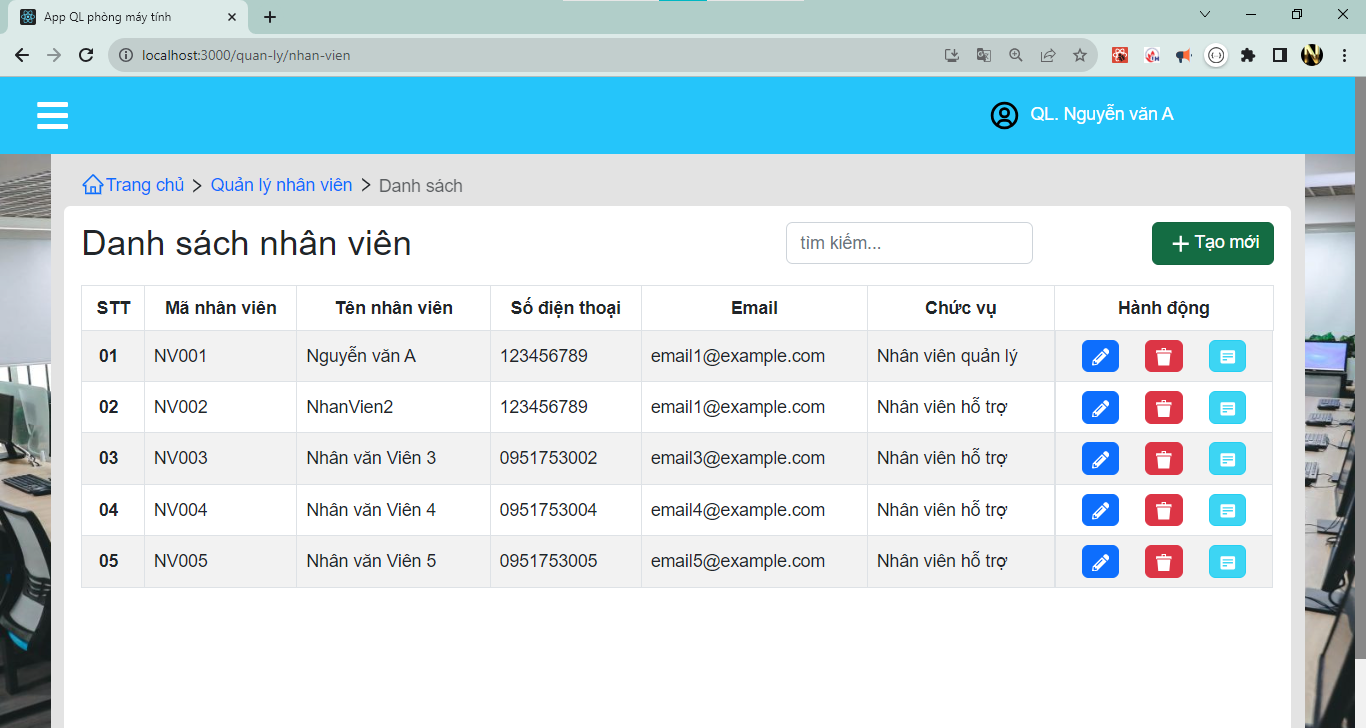
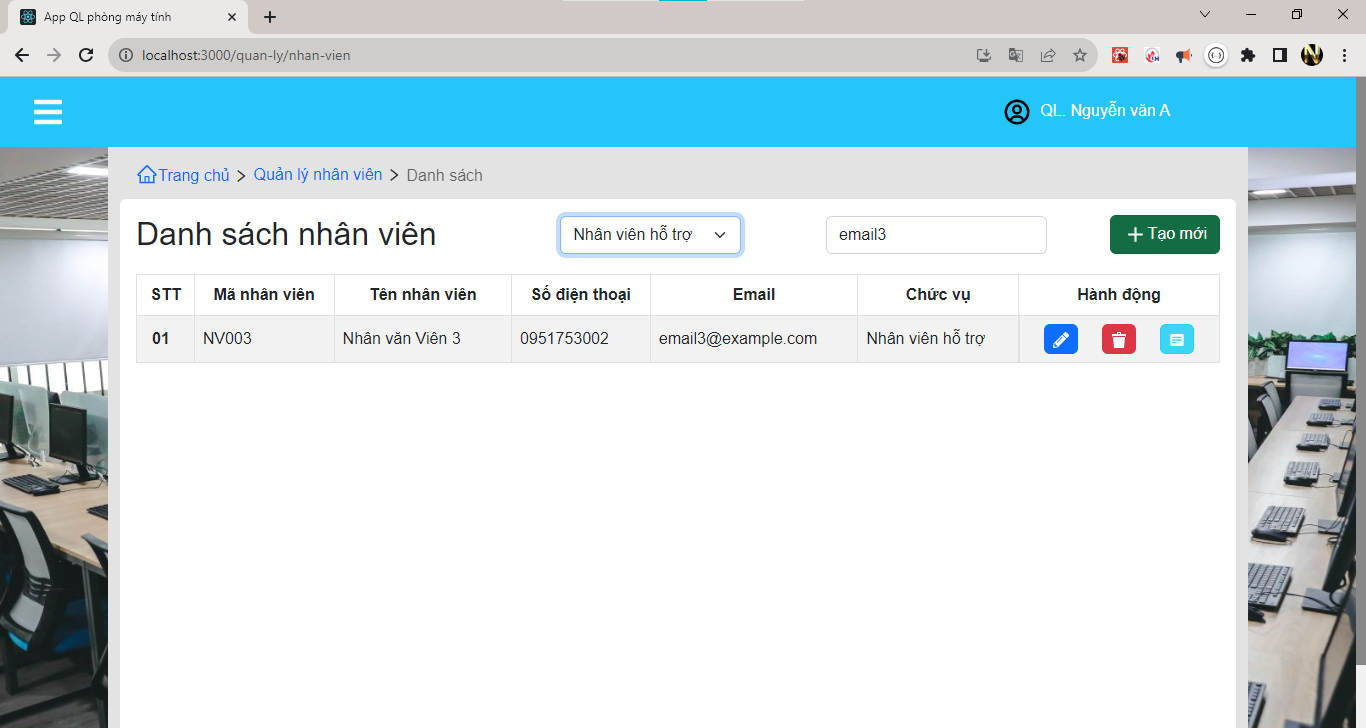
QlnhanVien: add select Chuc vu

diff --git a/src/pages/PageQuanLy/PageQLNhanVien.jsx b/src/pages/PageQuanLy/PageQLNhanVien.jsx
@@ -9,20 +9,37 @@ import Footer from "../../components/common/Footer/Footer";
 import NavTab from "../../components/common/NavTab/NavTab";
 import { NavLink } from "react-router-dom";
 import { useDispatch, useSelector } from "react-redux";
-import { getAllNhanVienApi, setValueSearchNhanVien } from "../../redux/reducers/nhanVienReducer";
+import {
+  getAllNhanVienApi,
+  setValueSearchNhanVien,
+  setValueSelectNhanVienAction,
+} from "../../redux/reducers/nhanVienReducer";
+import { getAllChucVuApi } from "../../redux/reducers/chucVuReducer";
 
 export default function PageQLNhanVien() {
   const dispatch = useDispatch();
 
-  const { arrNhanVienSearch } = useSelector((state) => state.nhanVienReducer);
+  const { arrNhanVien, arrNhanVienSearch, valueSelect, valueSearch } =
+    useSelector((state) => state.nhanVienReducer);
+  const { arrChucVu } = useSelector((state) => state.chucVuReducer);
 
   useEffect(() => {
-    dispatch(getAllNhanVienApi);
+    if (arrNhanVien.length === 0) {
+      dispatch(getAllNhanVienApi);
+    }
+
+    if (arrChucVu.length === 0) {
+      dispatch(getAllChucVuApi);
+    }
   }, []);
 
   //handle
   const handleChangeSearch = (e) => {
-    dispatch(setValueSearchNhanVien(e.target.value))
+    dispatch(setValueSearchNhanVien(e.target.value));
+  };
+  //
+  const handleChangeSelectChucVu = (e) => {
+    dispatch(setValueSelectNhanVienAction(e.target.value));
   };
   //render
   const renderDataNhanVien = () => {
@@ -83,6 +100,20 @@ export default function PageQLNhanVien() {
       );
     });
   };
+  //
+  const renderSelectChucVu = () => {
+    return arrChucVu?.map((item, index) => {
+      return (
+        <option
+          key={index}
+          selected={item.maCV == valueSelect ? 1 : 0}
+          value={item.maCV}
+        >
+          {item.tenCV}
+        </option>
+      );
+    });
+  };
 
   // Mảng quản lý data navtab
   let arrLinkNavTab = [{ name: "Quản lý nhân viên", link: "" }];
@@ -110,10 +141,21 @@ export default function PageQLNhanVien() {
             >
               <h2 style={{ margin: "0" }}>Danh sách nhân viên</h2>
               <div></div>
-
-              {/* select - option */}
-              {/* {renderSelectTrangThai()} */}
               <div></div>
+              {/* select - option */}
+
+              <div className="col-2 m-2">
+                <select
+                  className="form-select"
+                  onChange={handleChangeSelectChucVu}
+                >
+                  <option value="-1" selected>
+                    tất cả
+                  </option>
+                  {renderSelectChucVu()}
+                </select>
+              </div>
+
               <div></div>
 
               {/* input tim kiem */}
@@ -122,6 +164,7 @@ export default function PageQLNhanVien() {
                   type="text"
                   className="form-control"
                   placeholder="tìm kiếm..."
+                  value={valueSearch}
                   onChange={handleChangeSearch}
                 />
               </div>

diff --git a/src/redux/reducers/nhanVienReducer.jsx b/src/redux/reducers/nhanVienReducer.jsx
@@ -4,31 +4,40 @@ import { createSlice } from "@reduxjs/toolkit";
 import { http } from "../../util/config";
 import Database from "../../util/database/Database";
 
-
 // function
-const dataSearch = (arrData, valSearch) => {
-    let search = valSearch.toLowerCase();
+const dataSearch = (arrData, valSearch, valSelect) => {
+  let search = valSearch.toLowerCase();
+  let arrUpdate = [];
+  if (valSelect != -1) {
+    arrUpdate = arrData.filter((item) => {
+      return (
+        (item.maNV.toLowerCase().includes(search) ||
+          item.tenNV.toLowerCase().includes(search) ||
+          item.sDT.toLowerCase().includes(search) ||
+          item.email.toLowerCase().includes(search)) &&
+        item.chucVu.maCV == valSelect
+      );
+    });
+  } else {
+    arrUpdate = arrData.filter((item) => {
+      return (
+        item.maNV.toLowerCase().includes(search) ||
+        item.tenNV.toLowerCase().includes(search) ||
+        item.sDT.toLowerCase().includes(search) ||
+        item.email.toLowerCase().includes(search)
+      );
+    });
+  }
 
-    let arrUpdate = arrData.filter(item => {
-        let ngaySinh = new Date(item.ngaySinh);
-        return (
-        item.idCode.toLowerCase().includes(search) ||
-        item.name.toLowerCase().includes(search) ||
-        (ngaySinh.getYear()+"").toLowerCase().includes(search) ||
-        item.sdt.toLowerCase().includes(search) ||
-        item.email.toLowerCase().includes(search) 
-        )
-    })
-
-    return [...arrUpdate];
-    
-}
+  return [...arrUpdate];
+};
 
 const initialState = {
   arrNhanVien: [],
   arrNhanVienSearch: [],
   detailNhanVien: {},
   valueSearch: "",
+  valueSelect: "-1",
 };
 
 const nhanVienReducer = createSlice({
@@ -39,16 +48,34 @@ const nhanVienReducer = createSlice({
       state.arrNhanVien = action.payload;
       state.arrNhanVienSearch = action.payload;
     },
-    setValueSearchNhanVien: (state, action) =>{
-        state.valueSearch = action.payload
+    setValueSearchNhanVien: (state, action) => {
+      state.valueSearch = action.payload;
 
-        let{arrNhanVien} = state;
-        state.arrNhanVienSearch = dataSearch(arrNhanVien, action.payload)
-    }
+      let { arrNhanVien, valueSearch, valueSelect } = state;
+      state.arrNhanVienSearch = dataSearch(
+        arrNhanVien,
+        action.payload,
+        valueSelect
+      );
+    },
+    setValueSelectNhanVienAction: (state, action) => {
+      state.valueSelect = action.payload;
+
+      let { arrNhanVien, valueSearch, valueSelect } = state;
+      state.arrNhanVienSearch = dataSearch(
+        arrNhanVien,
+        valueSearch,
+        action.payload
+      );
+    },
   },
 });
 // exp nay de sử dụng theo cách 2
-export const {setArrNhanVienAction,setValueSearchNhanVien, } = nhanVienReducer.actions;
+export const {
+  setArrNhanVienAction,
+  setValueSelectNhanVienAction,
+  setValueSearchNhanVien,
+} = nhanVienReducer.actions;
 export default nhanVienReducer.reducer;
 
 // -------------- Call API ---------------

diff --git a/src/pages/PageQuanLy/PageQLTaiKhoan.jsx b/src/pages/PageQuanLy/PageQLTaiKhoan.jsx
@@ -10,6 +10,7 @@ import NavTab from "../../components/common/NavTab/NavTab";
 import { NavLink } from "react-router-dom";
 import { useDispatch, useSelector } from "react-redux";
 import {
+  deleteTaiKhoanApi,
   getAllQuyenSDApi,
   getAllTaiKhoanApi,
   getUserbyIdApi,
@@ -57,21 +58,6 @@ export default function PageQLTaiKhoan() {
           <td>{item.mota.name}</td> */}
 
           <td style={{ display: "flex", justifyContent: "space-evenly" }}>
-            {/* <NavLink
-              // to={"/quan-ly/tai-khoan/update"}
-              onClick={() => {
-                alert(`Update -- ${item.id} -- dang cập nhật!`);
-                // co the truyển data len redux từ đây rồi sang trang kia lấy về sau
-              }}
-            >
-              <button
-                type="button"
-                className="btn btn-primary mx-2 px-2"
-                style={{ padding: "2px" }}
-              >
-                <FaPencilAlt color="white" size={16} />
-              </button>
-            </NavLink> */}
 
             <button
               type="button"
@@ -86,16 +72,18 @@ export default function PageQLTaiKhoan() {
               <BiSolidDetail color="white" size={16} />
             </button>
 
-            <button
+            {/* <button
               onClick={() => {
-                alert(`Del -- ${item.id} -- dang cập nhật!`);
+                if (window.confirm("Bấm vào nút OK để xóa tài khoản" + item.tenDangNhap)) {
+                  dispatch(deleteTaiKhoanApi(item.maTK));
+                }
               }}
               type="button"
               className="btn btn-danger mx-2 px-2"
               style={{ padding: "2px" }}
             >
               <ImBin2 color="white" size={16} />
-            </button>
+            </button> */}
           </td>
         </tr>
       );
@@ -198,7 +186,7 @@ export default function PageQLTaiKhoan() {
                     <th style={{ minWidth: "110px" }}>Mã tài khoản</th>
                     <th style={{ minWidth: "125px" }}>Tên đăng nhập</th>
                     <th style={{ minWidth: "160px" }}>Quyền sử dụng</th>
-                    <th style={{ minWidth: "170px" }}>Hành động</th>
+                    <th style={{ minWidth: "120px" }}>Hành động</th>
                   </tr>
                 </thead>
                 <tbody className="over_flow_auto">

diff --git a/src/redux/reducers/chucVuReducer.jsx b/src/redux/reducers/chucVuReducer.jsx
@@ -1,0 +1,40 @@
+//rxslice
+
+import { createSlice } from "@reduxjs/toolkit";
+import { http } from "../../util/config";
+
+const initialState = {
+  arrChucVu:[],
+  arrChucVuSearch:[],
+};
+
+const chucVuReducer = createSlice({
+  name: "chucVuReducer",
+  initialState,
+  reducers: {
+    setArrChucVuAction: (state, action) => {
+      state.arrChucVu = action.payload;
+      state.arrChucVuSearch = action.payload;
+    },
+  },
+});
+// exp nay de sử dụng theo cách 2
+export const { setArrChucVuAction } = chucVuReducer.actions;
+export default chucVuReducer.reducer;
+
+
+// Call Api ====================================
+/**
+ * get all Chuc vu
+ */
+export const getAllChucVuApi = async (dispatch) => {
+  try {
+    let result = await http.get('/DSChucVu');
+
+    dispatch(setArrChucVuAction(result.data));
+  } catch (error) {
+    console.log("🚀 ~ file: chucVuReducer.jsx:33 ~ getAllChucVuApi ~ error:", error)
+    
+  }
+} 
+

diff --git a/src/redux/ConfigRedux.js b/src/redux/ConfigRedux.js
@@ -13,9 +13,11 @@ import lichTrucReducer from "./reducers/lichTrucReducer";
 import homeReducer from "./reducers/homeReducer";
 import phongMayReducer from "./reducers/phongMayReducer";
 import phanMemReducer from "./reducers/phanMemReducer";
+import chucVuReducer from "./reducers/chucVuReducer";
 
 export const store = configureStore({
     reducer: {
+      chucVuReducer:chucVuReducer,
       phanMemReducer:phanMemReducer,
       phongMayReducer:phongMayReducer,
       homeReducer:homeReducer,

diff --git a/src/redux/reducers/taiKhoanReducer.jsx b/src/redux/reducers/taiKhoanReducer.jsx
@@ -128,12 +128,22 @@ export default taiKhoanReducer.reducer;
 
 // -------------- Call API ---------------
 
+export const deleteTaiKhoanApi= (maTk) => {
+  return async (dispatch) => {
+    try {
+      
+    } catch (error) {
+      console.log("🚀 ~ file: taiKhoanReducer.jsx:136 ~ return ~ error:", error)
+      
+    }
+  }
+}
+
 /**
  * update taiKhoan
  * @param {*} taiKhoan
  * @returns
  */
-
 export const updateTaiKhoan2 = (taiKhoan) => {
   return async (dispatch) => {
     try {

diff --git a/src/pages/PageQuanLy/PageQLGiaoVien.jsx b/src/pages/PageQuanLy/PageQLGiaoVien.jsx
@@ -105,7 +105,8 @@ export default function PageQLGiaoVien() {
     });
   };
   //
-  const renderSelectKhoa = () => {
+  const 
+  renderSelectKhoa = () => {
     return arrKhoa?.map((item, index) => {
       if (item.maKhoa == valueSelect) {
         return (
